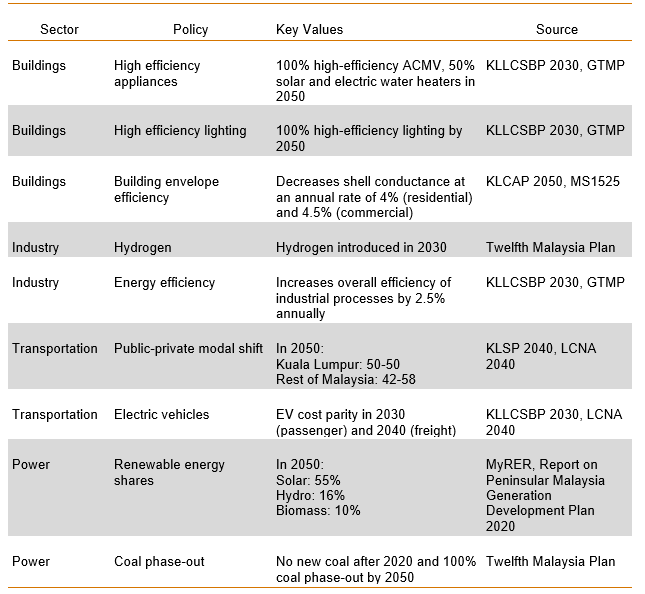
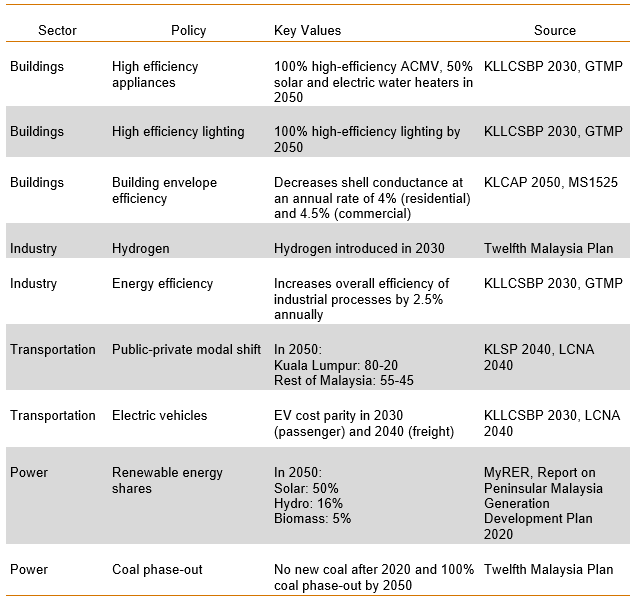
Malaysia - final proofreading updates

diff --git a/webpage/_site/modeling_malaysia.html b/webpage/_site/modeling_malaysia.html
@@ -629,6 +629,7 @@ Carbon Neutral Scenario
 </tr>
 </tbody>
 </table>
+<p><br></p>
 <!-------------------------->
 <!-------------------------->
 </div>
@@ -654,6 +655,7 @@ Sets of policies modeled
 <p><br></p>
 <p>The following subsections give additional technical details and
 explanations for the policies listed above.</p>
+<p><br></p>
 <div id="high-efficiency-appliances" class="section level2"
 number="5.1">
 <h2><span class="header-section-number">5.1</span> High Efficiency
@@ -1276,8 +1278,8 @@ Policies, Carbon Neutral
 <a href="https://github.com/JGCRI/seasia/blob/main/modeling/malaysia/sectoral_policies/trn_modal_shift.xml" style="     ">trn_modal_shift.xml</a>
 </td>
 <td style="text-align:left;">
-Increases ratio of public to private transportation to 50-50 in Kuala
-Lumpur and 42-58 in the rest of the country in 2050
+Increases ratio of public to private transportation to 80-20 in Kuala
+Lumpur and 55-45 in the rest of the country in 2050
 </td>
 </tr>
 </tbody>
@@ -1308,7 +1310,12 @@ style="background-color:#fffae0; border-left: solid #1f1f1f 4px; border-radius: 
 <b>Approach</b>
 </p>
 <p style="margin-left:1em;">
-FILL IN HERE
+To represent a transition to public transportation, we adjust the
+shareweights of public transportation modes (Bus, Rail, Walk, and Cycle)
+in Kuala Lumpur and the Rest of Malaysia in order to increase their
+share in the market. Representing a modal shift in GCAM involves
+guessing and checking- that is, changing the shareweights, running the
+model, checking the output, and fine-tuning from there.
 </p>
 <p></span></p>
 </div>
@@ -1332,7 +1339,11 @@ style="background-color:#F5E5E1; border-left: solid #1f1f1f 4px; border-radius: 
 <li>Download the “<a
 href="https://github.com/JGCRI/seasia/blob/main/modeling/malaysia/sectoral_policies/trn_modal_shift.xml">trn_modal_shift.xml</a>”
 file to the folder.</li>
-<li>To make custom adjustments _______________.</li>
+<li>To make custom adjustments, change the <code>share-weight</code> for
+<code>year="2100"</code> in a given <code>tranSubsector</code>.
+Increasing the <code>share-weight</code> will result in a greater share
+of the mode that was adjusted, while decreasing it will result in
+less.</li>
 <li>Save the xml and then point to it in your configuration file by
 adding the line:
 <code>&lt;Value name = "scen"&gt;../input/addons/malaysia/trn_modal_shift.xml&lt;/Value&gt;</code></li>
@@ -1449,9 +1460,8 @@ style="background-color:#F5E5E1; border-left: solid #1f1f1f 4px; border-radius: 
 <ol style="list-style-type: decimal">
 <li>Create a folder in the input directory:
 <code>./gcam-core/input/addons</code>.</li>
-<li>Download the “[trn_ev_cost_parity.xml](<a
-href="https://github.com/JGCRI/seasia/blob/main/modeling/malaysia/sectoral_policies/trn_ev_cost_parity.xml"
-class="uri">https://github.com/JGCRI/seasia/blob/main/modeling/malaysia/sectoral_policies/trn_ev_cost_parity.xml</a>”
+<li>Download the “<a
+href="https://github.com/JGCRI/seasia/blob/main/modeling/malaysia/sectoral_policies/trn_ev_cost_parity.xml">trn_ev_cost_parity.xml</a>”
 file to the folder.</li>
 <li>To make custom adjustments to the EV cost trajectory, set the
 desired <code>input-cost</code> for each year within
@@ -1493,7 +1503,7 @@ Policies, Carbon Neutral
 <a href="https://github.com/JGCRI/seasia/blob/main/modeling/malaysia/sectoral_policies/elec_gen_shares.xml" style="     ">elec_gen_shares.xml</a>
 </td>
 <td style="text-align:left;">
-Sets floors for renewable electricity generation technologies
+Sets shares for renewable electricity generation technologies
 </td>
 </tr>
 <tr>
@@ -1519,10 +1529,11 @@ style="background-color:#E1F4F5; border-left: solid #1f1f1f 4px; border-radius: 
 <b>Goal</b>
 </p>
 <p style="margin-left:1em;">
-<p>The goal of this example is to set a minimum value (floor) in GCAM
-for the amount of electricity generation from three renewable energy
-technologies (solar, hydro, and biomass) corresponding with the planned
-percentages in the KLLCSBP2030 (below).</p>
+<p>The goal of this example is to set a share for the amount of
+electricity generation from two renewable energy technologies (solar and
+biomass) corresponding with the planned percentages in the KLLCSBP2030
+(below). Because hydropower is exogenous in GCAM, we set a generation
+value (in EJ) rather than a share.</p>
 <p align="center">
 <img src="images/KL_2030_power.png">
 </p>
@@ -1584,8 +1595,7 @@ implement these options.
 <!-------------------------->
 <!---GCAM Implementation---->
 <!-------------------------->
-<div class="warning"
-style="background-color:#F5E5E1; border-left: solid #1f1f1f 4px; border-radius: 4px; padding:0.7em;">
+<div class="warning" style='background-color:#F5E5E1; border-left: solid #1f1f1f 4px; border-radius: 4px; padding:0.7em;'>
 <span>
 <p style="text-align:center; font-size:24px">
 <b>GCAM Implementation</b>
@@ -1597,26 +1607,43 @@ style="background-color:#F5E5E1; border-left: solid #1f1f1f 4px; border-radius: 
 <li>Download the “<a
 href="https://github.com/JGCRI/seasia/blob/main/modeling/malaysia/sectoral_policies/elec_gen_shares.xml">elec_gen_shares.xml</a>”
 file to the folder.</li>
-<li>To make adjustments: within each
-<code>policy-portfolio-standard</code> tag in the XML, adjust the
-following:</li>
+<li>To make adjustments for generation sources currently included
+(solar, biomass): within each <code>minicam-energy-input</code> tag in
+the XML, adjust the <code>current-coef</code> for each year in which a
+floor is desired. The find + replace function is useful here due to the
+size of the XML.</li>
+<li>To add a new generation source to set a share for</li>
 </ol>
 </p>
-<ul style="margin-left:4em; text-align:left;">
+<ul style='margin-left:4em; text-align:left;'>
 <li>
-<code>constraint</code> for each year in which a floor is desired
+Create a <code>policy-portfolio-standard</code> for the technology (use
+current XML as an example).
 </li>
 <li>
-Set <code>min-price</code> to a large negative value for years in which
-an exact constraint, rather than a floor, is desired
+Add this technology as a <code>minicam-energy-input</code> within each
+<code>supplysector</code> or
+<code>pass-through-sector</code>/<code>subsector</code>/<code>stub-technology</code>
+for every <code>period</code>, and adjust the <code>current-coef</code>.
 </li>
+<li>
+Create a <code>res-secondary-output</code> for this technology, where
+applicable. For example, a <code>res-secondary-output</code> is created
+for solar in
+<code>supplysector</code>:electricity/<code>subsector</code>:solar/<code>stub-technology</code>:PV,
+<code>supplysector</code>:electricity/<code>subsector</code>:solar/<code>stub-technology</code>:PV_storage,
+<code>supplysector</code>:elect_td_bld/<code>subsector</code>:rooftop_pv/<code>stub-technology</code>:rooftop_pv,
+<code>pass-through-sector</code>:elec_CSP/<code>subsector</code>:CSP/<code>stub-technology</code>:CSP
+(recirculating),
+<code>pass-through-sector</code>:elec_CSP/<code>subsector</code>:CSP/<code>stub-technology</code>:CSP
+(dry_hybrid),
+<code>pass-through-sector</code>:elec_CSP_storage/<code>subsector</code>:CSP_storage/<code>stub-technology</code>:CSP_storage
+(recirculating), and
+<code>pass-through-sector</code>:elec_CSP_storage/<code>subsector</code>:CSP_storage/<code>stub-technology</code>:CSP_storage
+(dry_hybrid), because these are all solar-related technologies.
 </ul>
 <p style="margin-left:1em;">
-<ol start="4" style="list-style-type: decimal">
-<li>Within each <code>supplysector</code> tag in the XML, make sure that
-the corresponding <code>input-subsidy</code> is added within each
-relevant <code>period</code> for each <code>stub-technology</code> you
-wish to constrain.</li>
+<ol start="5" style="list-style-type: decimal">
 <li>To adjust the hydropower pathway, download the “<a
 href="https://github.com/JGCRI/seasia/blob/main/modeling/malaysia/sectoral_policies/elec_hydro">elec_hydro.xml</a>”
 file to the folder.</li>
@@ -1629,7 +1656,7 @@ adding the lines:
 <code>&lt;Value name = "scen"&gt;../input/addons/malaysia/elec_hydro.xml&lt;/Value&gt;</code></li>
 </ol>
 </p>
-<p></span></p>
+</span>
 </div>
 <p><br></p>
 </div>
